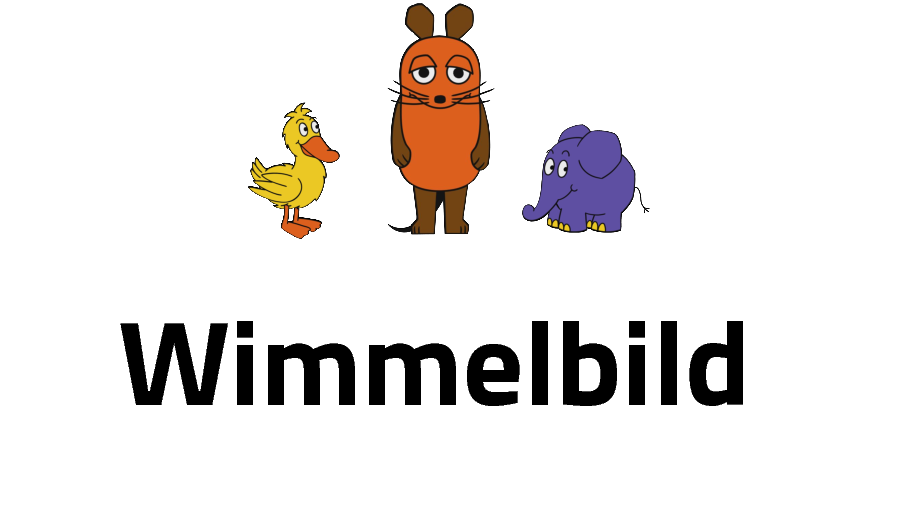
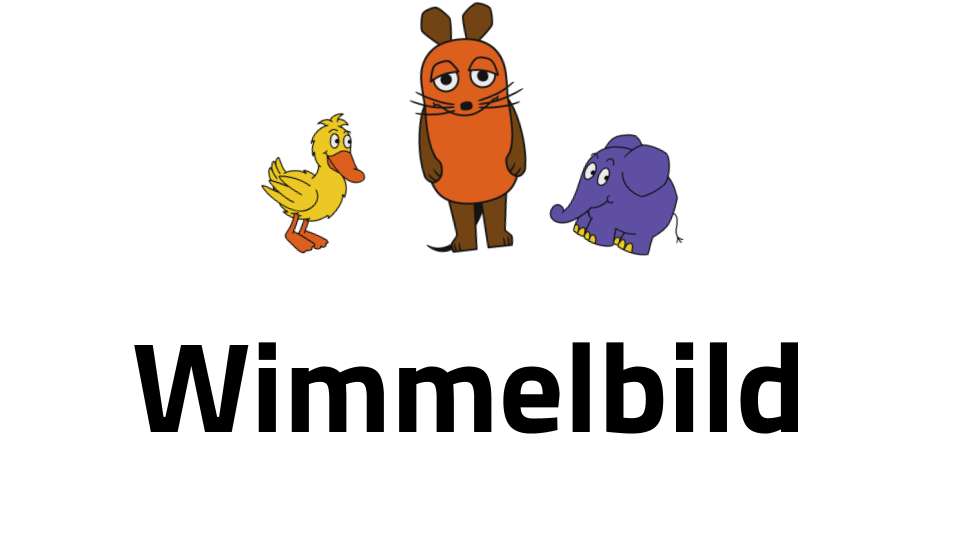
:bento: Make Übersicht nice

diff --git a/src/lib/edu/index.js b/src/lib/edu/index.js
@@ -1,9 +1,9 @@
 import image00 from './00/assets/000.png';
-import image01 from './01/assets/000.png';
-import image02 from './02/assets/000.png';
-import image03 from './03/assets/000.png';
-import image04 from './04/assets/000.png';
-import image05 from './05/assets/000.png';
+import image01 from './01/assets/s000.png';
+import image02 from './02/assets/s000.png';
+import image03 from './03/assets/s000.png';
+import image04 from './04/assets/s000.png';
+import image05 from './05/assets/s000.png';
 
 export default [
     {
@@ -38,7 +38,7 @@ export default [
     },
     {
         id: '05',
-        name: 'Wurst im Weltraum',
+        name: 'Im Weltall',
         subtitle: '05 Spiel',
         image: image05,
     },
